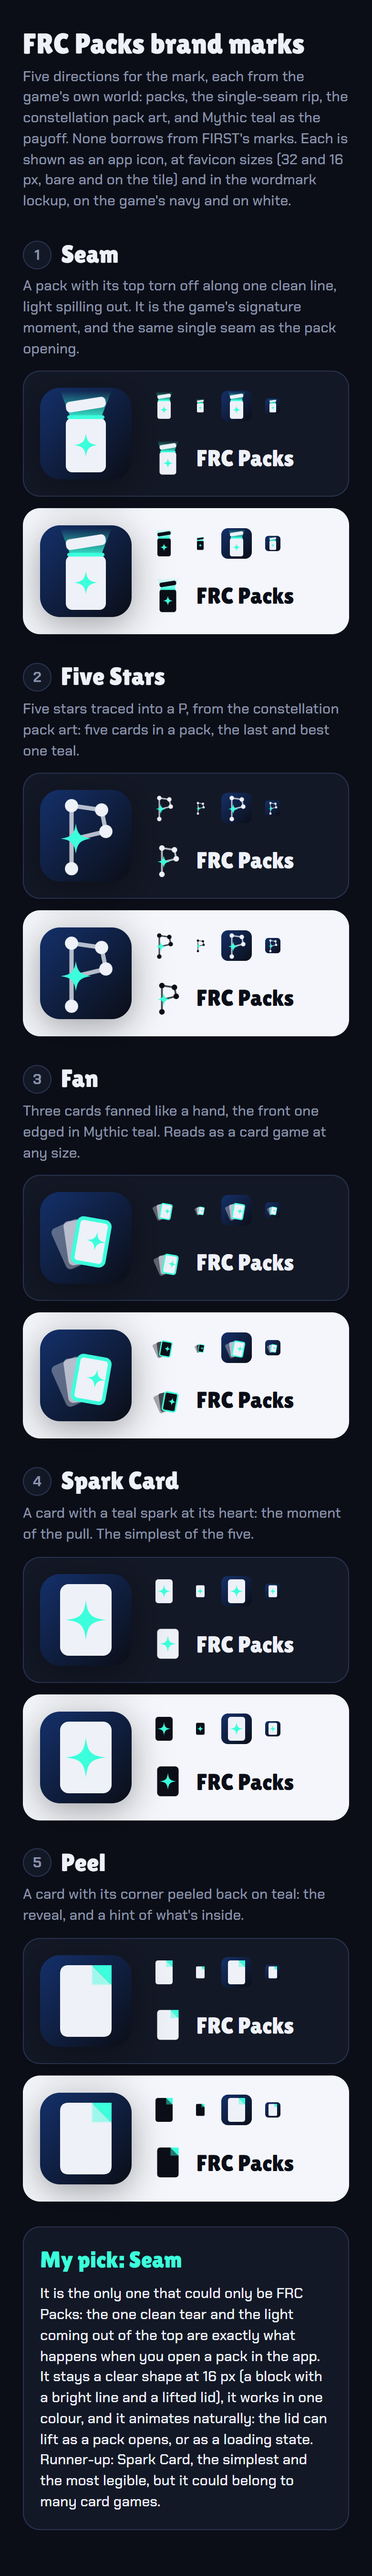
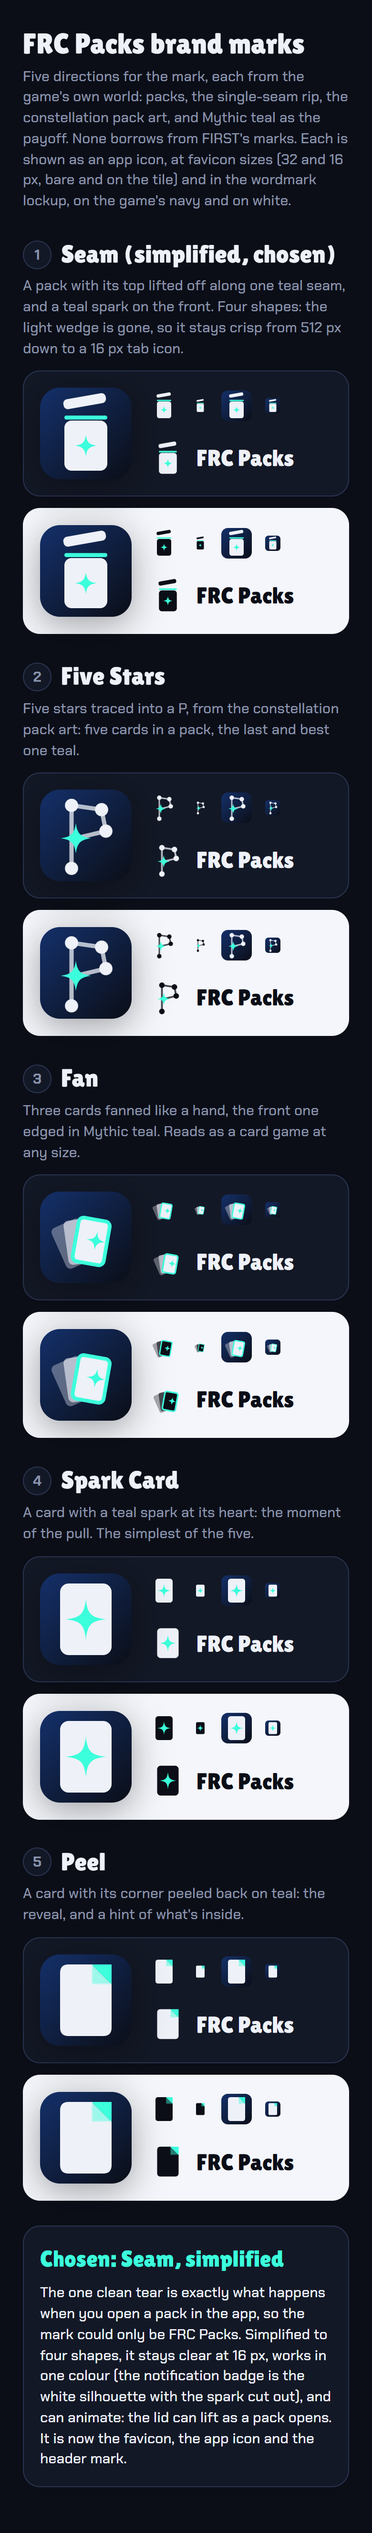
Brand marks: Seam simplified to four shapes (chosen)

Changed region(s): [[0.0615, 0.0, 0.9538, 0.9951]]

diff --git a/prototype/brand/sheet.html b/prototype/brand/sheet.html
@@ -50,89 +50,65 @@ p { margin: 0; }
   </header>
   
 <section class="row">
-  <header><h2><span class="n">1</span>Seam</h2><p>A pack with its top torn off along one clean line, light spilling out. It is the game's signature moment, and the same single seam as the pack opening.</p></header>
+  <header><h2><span class="n">1</span>Seam (simplified, chosen)</h2><p>A pack with its top lifted off along one teal seam, and a teal spark on the front. Four shapes: the light wedge is gone, so it stays crisp from 512 px down to a 16 px tab icon.</p></header>
   <div class="panes">
     <div class="pane dark">
       <div class="app"><svg xmlns="http://www.w3.org/2000/svg" viewBox="0 0 64 64"><defs><linearGradient id="bgseama" x1="0" y1="0" x2="1" y2="1"><stop offset="0" stop-color="#14306a"/><stop offset="1" stop-color="#0b0e17"/></linearGradient></defs><rect width="64" height="64" rx="14" fill="url(#bgseama)"/>
-  <defs><linearGradient id="gseama" x1="0" y1="1" x2="0" y2="0"><stop offset="0" stop-color="#3cffdc" stop-opacity=".85"/><stop offset="1" stop-color="#3cffdc" stop-opacity="0"/></linearGradient></defs>
-  <path d="M21 20 L43 20 L50 2 L14 2 Z" fill="url(#gseama)"/>
-  <rect x="18" y="21" width="28" height="38" rx="4.5" fill="#eef1f8"/>
-  <rect x="19" y="19.2" width="26" height="2.6" rx="1.3" fill="#3cffdc"/>
-  <rect x="18" y="8" width="28" height="7.5" rx="3" fill="#eef1f8" transform="rotate(-9 32 12)"/>
-  <path d="M32 32 C32.80 37.60 34.40 39.20 40 40 C34.40 40.80 32.80 42.40 32 48 C31.20 42.40 29.60 40.80 24 40 C29.60 39.20 31.20 37.60 32 32 Z" fill="#3cffdc"/></svg></div>
+  <rect x="17" y="23" width="30" height="35" rx="5" fill="#eef1f8"/>
+  <rect x="17" y="19.5" width="30" height="2.8" rx="1.4" fill="#3cffdc"/>
+  <rect x="17" y="8.5" width="30" height="7" rx="3" fill="#eef1f8" transform="rotate(-10 17 15.5)"/>
+  <path d="M32 33.0 C32.75 38.25 34.25 39.75 39.5 40.5 C34.25 41.25 32.75 42.75 32 48.0 C31.25 42.75 29.75 41.25 24.5 40.5 C29.75 39.75 31.25 38.25 32 33.0 Z" fill="#3cffdc"/></svg></div>
       <div class="small"><span class="s32"><svg xmlns="http://www.w3.org/2000/svg" viewBox="0 0 64 64" fill="currentColor">
-  <defs><linearGradient id="gseamb" x1="0" y1="1" x2="0" y2="0"><stop offset="0" stop-color="#3cffdc" stop-opacity=".85"/><stop offset="1" stop-color="#3cffdc" stop-opacity="0"/></linearGradient></defs>
-  <path d="M21 20 L43 20 L50 2 L14 2 Z" fill="url(#gseamb)"/>
-  <rect x="18" y="21" width="28" height="38" rx="4.5" fill="currentColor"/>
-  <rect x="19" y="19.2" width="26" height="2.6" rx="1.3" fill="#3cffdc"/>
-  <rect x="18" y="8" width="28" height="7.5" rx="3" fill="currentColor" transform="rotate(-9 32 12)"/>
-  <path d="M32 32 C32.80 37.60 34.40 39.20 40 40 C34.40 40.80 32.80 42.40 32 48 C31.20 42.40 29.60 40.80 24 40 C29.60 39.20 31.20 37.60 32 32 Z" fill="#3cffdc"/></svg></span><span class="s16"><svg xmlns="http://www.w3.org/2000/svg" viewBox="0 0 64 64" fill="currentColor">
-  <defs><linearGradient id="gseamc" x1="0" y1="1" x2="0" y2="0"><stop offset="0" stop-color="#3cffdc" stop-opacity=".85"/><stop offset="1" stop-color="#3cffdc" stop-opacity="0"/></linearGradient></defs>
-  <path d="M21 20 L43 20 L50 2 L14 2 Z" fill="url(#gseamc)"/>
-  <rect x="18" y="21" width="28" height="38" rx="4.5" fill="currentColor"/>
-  <rect x="19" y="19.2" width="26" height="2.6" rx="1.3" fill="#3cffdc"/>
-  <rect x="18" y="8" width="28" height="7.5" rx="3" fill="currentColor" transform="rotate(-9 32 12)"/>
-  <path d="M32 32 C32.80 37.60 34.40 39.20 40 40 C34.40 40.80 32.80 42.40 32 48 C31.20 42.40 29.60 40.80 24 40 C29.60 39.20 31.20 37.60 32 32 Z" fill="#3cffdc"/></svg></span><span class="t32"><svg xmlns="http://www.w3.org/2000/svg" viewBox="0 0 64 64"><defs><linearGradient id="bgseamd" x1="0" y1="0" x2="1" y2="1"><stop offset="0" stop-color="#14306a"/><stop offset="1" stop-color="#0b0e17"/></linearGradient></defs><rect width="64" height="64" rx="14" fill="url(#bgseamd)"/>
-  <defs><linearGradient id="gseamd" x1="0" y1="1" x2="0" y2="0"><stop offset="0" stop-color="#3cffdc" stop-opacity=".85"/><stop offset="1" stop-color="#3cffdc" stop-opacity="0"/></linearGradient></defs>
-  <path d="M21 20 L43 20 L50 2 L14 2 Z" fill="url(#gseamd)"/>
-  <rect x="18" y="21" width="28" height="38" rx="4.5" fill="#eef1f8"/>
-  <rect x="19" y="19.2" width="26" height="2.6" rx="1.3" fill="#3cffdc"/>
-  <rect x="18" y="8" width="28" height="7.5" rx="3" fill="#eef1f8" transform="rotate(-9 32 12)"/>
-  <path d="M32 32 C32.80 37.60 34.40 39.20 40 40 C34.40 40.80 32.80 42.40 32 48 C31.20 42.40 29.60 40.80 24 40 C29.60 39.20 31.20 37.60 32 32 Z" fill="#3cffdc"/></svg></span><span class="t16"><svg xmlns="http://www.w3.org/2000/svg" viewBox="0 0 64 64"><defs><linearGradient id="bgseame" x1="0" y1="0" x2="1" y2="1"><stop offset="0" stop-color="#14306a"/><stop offset="1" stop-color="#0b0e17"/></linearGradient></defs><rect width="64" height="64" rx="14" fill="url(#bgseame)"/>
-  <defs><linearGradient id="gseame" x1="0" y1="1" x2="0" y2="0"><stop offset="0" stop-color="#3cffdc" stop-opacity=".85"/><stop offset="1" stop-color="#3cffdc" stop-opacity="0"/></linearGradient></defs>
-  <path d="M21 20 L43 20 L50 2 L14 2 Z" fill="url(#gseame)"/>
-  <rect x="18" y="21" width="28" height="38" rx="4.5" fill="#eef1f8"/>
-  <rect x="19" y="19.2" width="26" height="2.6" rx="1.3" fill="#3cffdc"/>
-  <rect x="18" y="8" width="28" height="7.5" rx="3" fill="#eef1f8" transform="rotate(-9 32 12)"/>
-  <path d="M32 32 C32.80 37.60 34.40 39.20 40 40 C34.40 40.80 32.80 42.40 32 48 C31.20 42.40 29.60 40.80 24 40 C29.60 39.20 31.20 37.60 32 32 Z" fill="#3cffdc"/></svg></span></div>
+  <rect x="17" y="23" width="30" height="35" rx="5" fill="currentColor"/>
+  <rect x="17" y="19.5" width="30" height="2.8" rx="1.4" fill="#3cffdc"/>
+  <rect x="17" y="8.5" width="30" height="7" rx="3" fill="currentColor" transform="rotate(-10 17 15.5)"/>
+  <path d="M32 33.0 C32.75 38.25 34.25 39.75 39.5 40.5 C34.25 41.25 32.75 42.75 32 48.0 C31.25 42.75 29.75 41.25 24.5 40.5 C29.75 39.75 31.25 38.25 32 33.0 Z" fill="#3cffdc"/></svg></span><span class="s16"><svg xmlns="http://www.w3.org/2000/svg" viewBox="0 0 64 64" fill="currentColor">
+  <rect x="17" y="23" width="30" height="35" rx="5" fill="currentColor"/>
+  <rect x="17" y="19.5" width="30" height="2.8" rx="1.4" fill="#3cffdc"/>
+  <rect x="17" y="8.5" width="30" height="7" rx="3" fill="currentColor" transform="rotate(-10 17 15.5)"/>
+  <path d="M32 33.0 C32.75 38.25 34.25 39.75 39.5 40.5 C34.25 41.25 32.75 42.75 32 48.0 C31.25 42.75 29.75 41.25 24.5 40.5 C29.75 39.75 31.25 38.25 32 33.0 Z" fill="#3cffdc"/></svg></span><span class="t32"><svg xmlns="http://www.w3.org/2000/svg" viewBox="0 0 64 64"><defs><linearGradient id="bgseamd" x1="0" y1="0" x2="1" y2="1"><stop offset="0" stop-color="#14306a"/><stop offset="1" stop-color="#0b0e17"/></linearGradient></defs><rect width="64" height="64" rx="14" fill="url(#bgseamd)"/>
+  <rect x="17" y="23" width="30" height="35" rx="5" fill="#eef1f8"/>
+  <rect x="17" y="19.5" width="30" height="2.8" rx="1.4" fill="#3cffdc"/>
+  <rect x="17" y="8.5" width="30" height="7" rx="3" fill="#eef1f8" transform="rotate(-10 17 15.5)"/>
+  <path d="M32 33.0 C32.75 38.25 34.25 39.75 39.5 40.5 C34.25 41.25 32.75 42.75 32 48.0 C31.25 42.75 29.75 41.25 24.5 40.5 C29.75 39.75 31.25 38.25 32 33.0 Z" fill="#3cffdc"/></svg></span><span class="t16"><svg xmlns="http://www.w3.org/2000/svg" viewBox="0 0 64 64"><defs><linearGradient id="bgseame" x1="0" y1="0" x2="1" y2="1"><stop offset="0" stop-color="#14306a"/><stop offset="1" stop-color="#0b0e17"/></linearGradient></defs><rect width="64" height="64" rx="14" fill="url(#bgseame)"/>
+  <rect x="17" y="23" width="30" height="35" rx="5" fill="#eef1f8"/>
+  <rect x="17" y="19.5" width="30" height="2.8" rx="1.4" fill="#3cffdc"/>
+  <rect x="17" y="8.5" width="30" height="7" rx="3" fill="#eef1f8" transform="rotate(-10 17 15.5)"/>
+  <path d="M32 33.0 C32.75 38.25 34.25 39.75 39.5 40.5 C34.25 41.25 32.75 42.75 32 48.0 C31.25 42.75 29.75 41.25 24.5 40.5 C29.75 39.75 31.25 38.25 32 33.0 Z" fill="#3cffdc"/></svg></span></div>
       <div class="lock"><span class="lm"><svg xmlns="http://www.w3.org/2000/svg" viewBox="0 0 64 64" fill="currentColor">
-  <defs><linearGradient id="gseamg" x1="0" y1="1" x2="0" y2="0"><stop offset="0" stop-color="#3cffdc" stop-opacity=".85"/><stop offset="1" stop-color="#3cffdc" stop-opacity="0"/></linearGradient></defs>
-  <path d="M21 20 L43 20 L50 2 L14 2 Z" fill="url(#gseamg)"/>
-  <rect x="18" y="21" width="28" height="38" rx="4.5" fill="currentColor"/>
-  <rect x="19" y="19.2" width="26" height="2.6" rx="1.3" fill="#3cffdc"/>
-  <rect x="18" y="8" width="28" height="7.5" rx="3" fill="currentColor" transform="rotate(-9 32 12)"/>
-  <path d="M32 32 C32.80 37.60 34.40 39.20 40 40 C34.40 40.80 32.80 42.40 32 48 C31.20 42.40 29.60 40.80 24 40 C29.60 39.20 31.20 37.60 32 32 Z" fill="#3cffdc"/></svg></span><b>FRC Packs</b></div>
+  <rect x="17" y="23" width="30" height="35" rx="5" fill="currentColor"/>
+  <rect x="17" y="19.5" width="30" height="2.8" rx="1.4" fill="#3cffdc"/>
+  <rect x="17" y="8.5" width="30" height="7" rx="3" fill="currentColor" transform="rotate(-10 17 15.5)"/>
+  <path d="M32 33.0 C32.75 38.25 34.25 39.75 39.5 40.5 C34.25 41.25 32.75 42.75 32 48.0 C31.25 42.75 29.75 41.25 24.5 40.5 C29.75 39.75 31.25 38.25 32 33.0 Z" fill="#3cffdc"/></svg></span><b>FRC Packs</b></div>
     </div>
     <div class="pane light">
       <div class="app"><svg xmlns="http://www.w3.org/2000/svg" viewBox="0 0 64 64"><defs><linearGradient id="bgseamh" x1="0" y1="0" x2="1" y2="1"><stop offset="0" stop-color="#14306a"/><stop offset="1" stop-color="#0b0e17"/></linearGradient></defs><rect width="64" height="64" rx="14" fill="url(#bgseamh)"/>
-  <defs><linearGradient id="gseamh" x1="0" y1="1" x2="0" y2="0"><stop offset="0" stop-color="#3cffdc" stop-opacity=".85"/><stop offset="1" stop-color="#3cffdc" stop-opacity="0"/></linearGradient></defs>
-  <path d="M21 20 L43 20 L50 2 L14 2 Z" fill="url(#gseamh)"/>
-  <rect x="18" y="21" width="28" height="38" rx="4.5" fill="#eef1f8"/>
-  <rect x="19" y="19.2" width="26" height="2.6" rx="1.3" fill="#3cffdc"/>
-  <rect x="18" y="8" width="28" height="7.5" rx="3" fill="#eef1f8" transform="rotate(-9 32 12)"/>
-  <path d="M32 32 C32.80 37.60 34.40 39.20 40 40 C34.40 40.80 32.80 42.40 32 48 C31.20 42.40 29.60 40.80 24 40 C29.60 39.20 31.20 37.60 32 32 Z" fill="#3cffdc"/></svg></div>
+  <rect x="17" y="23" width="30" height="35" rx="5" fill="#eef1f8"/>
+  <rect x="17" y="19.5" width="30" height="2.8" rx="1.4" fill="#3cffdc"/>
+  <rect x="17" y="8.5" width="30" height="7" rx="3" fill="#eef1f8" transform="rotate(-10 17 15.5)"/>
+  <path d="M32 33.0 C32.75 38.25 34.25 39.75 39.5 40.5 C34.25 41.25 32.75 42.75 32 48.0 C31.25 42.75 29.75 41.25 24.5 40.5 C29.75 39.75 31.25 38.25 32 33.0 Z" fill="#3cffdc"/></svg></div>
       <div class="small"><span class="s32"><svg xmlns="http://www.w3.org/2000/svg" viewBox="0 0 64 64" fill="currentColor">
-  <defs><linearGradient id="gseami" x1="0" y1="1" x2="0" y2="0"><stop offset="0" stop-color="#3cffdc" stop-opacity=".85"/><stop offset="1" stop-color="#3cffdc" stop-opacity="0"/></linearGradient></defs>
-  <path d="M21 20 L43 20 L50 2 L14 2 Z" fill="url(#gseami)"/>
-  <rect x="18" y="21" width="28" height="38" rx="4.5" fill="currentColor"/>
-  <rect x="19" y="19.2" width="26" height="2.6" rx="1.3" fill="#3cffdc"/>
-  <rect x="18" y="8" width="28" height="7.5" rx="3" fill="currentColor" transform="rotate(-9 32 12)"/>
-  <path d="M32 32 C32.80 37.60 34.40 39.20 40 40 C34.40 40.80 32.80 42.40 32 48 C31.20 42.40 29.60 40.80 24 40 C29.60 39.20 31.20 37.60 32 32 Z" fill="#3cffdc"/></svg></span><span class="s16"><svg xmlns="http://www.w3.org/2000/svg" viewBox="0 0 64 64" fill="currentColor">
-  <defs><linearGradient id="gseamj" x1="0" y1="1" x2="0" y2="0"><stop offset="0" stop-color="#3cffdc" stop-opacity=".85"/><stop offset="1" stop-color="#3cffdc" stop-opacity="0"/></linearGradient></defs>
-  <path d="M21 20 L43 20 L50 2 L14 2 Z" fill="url(#gseamj)"/>
-  <rect x="18" y="21" width="28" height="38" rx="4.5" fill="currentColor"/>
-  <rect x="19" y="19.2" width="26" height="2.6" rx="1.3" fill="#3cffdc"/>
-  <rect x="18" y="8" width="28" height="7.5" rx="3" fill="currentColor" transform="rotate(-9 32 12)"/>
-  <path d="M32 32 C32.80 37.60 34.40 39.20 40 40 C34.40 40.80 32.80 42.40 32 48 C31.20 42.40 29.60 40.80 24 40 C29.60 39.20 31.20 37.60 32 32 Z" fill="#3cffdc"/></svg></span><span class="t32"><svg xmlns="http://www.w3.org/2000/svg" viewBox="0 0 64 64"><defs><linearGradient id="bgseamk" x1="0" y1="0" x2="1" y2="1"><stop offset="0" stop-color="#14306a"/><stop offset="1" stop-color="#0b0e17"/></linearGradient></defs><rect width="64" height="64" rx="14" fill="url(#bgseamk)"/>
-  <defs><linearGradient id="gseamk" x1="0" y1="1" x2="0" y2="0"><stop offset="0" stop-color="#3cffdc" stop-opacity=".85"/><stop offset="1" stop-color="#3cffdc" stop-opacity="0"/></linearGradient></defs>
-  <path d="M21 20 L43 20 L50 2 L14 2 Z" fill="url(#gseamk)"/>
-  <rect x="18" y="21" width="28" height="38" rx="4.5" fill="#eef1f8"/>
-  <rect x="19" y="19.2" width="26" height="2.6" rx="1.3" fill="#3cffdc"/>
-  <rect x="18" y="8" width="28" height="7.5" rx="3" fill="#eef1f8" transform="rotate(-9 32 12)"/>
-  <path d="M32 32 C32.80 37.60 34.40 39.20 40 40 C34.40 40.80 32.80 42.40 32 48 C31.20 42.40 29.60 40.80 24 40 C29.60 39.20 31.20 37.60 32 32 Z" fill="#3cffdc"/></svg></span><span class="t16"><svg xmlns="http://www.w3.org/2000/svg" viewBox="0 0 64 64"><defs><linearGradient id="bgseaml" x1="0" y1="0" x2="1" y2="1"><stop offset="0" stop-color="#14306a"/><stop offset="1" stop-color="#0b0e17"/></linearGradient></defs><rect width="64" height="64" rx="14" fill="url(#bgseaml)"/>
-  <defs><linearGradient id="gseaml" x1="0" y1="1" x2="0" y2="0"><stop offset="0" stop-color="#3cffdc" stop-opacity=".85"/><stop offset="1" stop-color="#3cffdc" stop-opacity="0"/></linearGradient></defs>
-  <path d="M21 20 L43 20 L50 2 L14 2 Z" fill="url(#gseaml)"/>
-  <rect x="18" y="21" width="28" height="38" rx="4.5" fill="#eef1f8"/>
-  <rect x="19" y="19.2" width="26" height="2.6" rx="1.3" fill="#3cffdc"/>
-  <rect x="18" y="8" width="28" height="7.5" rx="3" fill="#eef1f8" transform="rotate(-9 32 12)"/>
-  <path d="M32 32 C32.80 37.60 34.40 39.20 40 40 C34.40 40.80 32.80 42.40 32 48 C31.20 42.40 29.60 40.80 24 40 C29.60 39.20 31.20 37.60 32 32 Z" fill="#3cffdc"/></svg></span></div>
+  <rect x="17" y="23" width="30" height="35" rx="5" fill="currentColor"/>
+  <rect x="17" y="19.5" width="30" height="2.8" rx="1.4" fill="#3cffdc"/>
+  <rect x="17" y="8.5" width="30" height="7" rx="3" fill="currentColor" transform="rotate(-10 17 15.5)"/>
+  <path d="M32 33.0 C32.75 38.25 34.25 39.75 39.5 40.5 C34.25 41.25 32.75 42.75 32 48.0 C31.25 42.75 29.75 41.25 24.5 40.5 C29.75 39.75 31.25 38.25 32 33.0 Z" fill="#3cffdc"/></svg></span><span class="s16"><svg xmlns="http://www.w3.org/2000/svg" viewBox="0 0 64 64" fill="currentColor">
+  <rect x="17" y="23" width="30" height="35" rx="5" fill="currentColor"/>
+  <rect x="17" y="19.5" width="30" height="2.8" rx="1.4" fill="#3cffdc"/>
+  <rect x="17" y="8.5" width="30" height="7" rx="3" fill="currentColor" transform="rotate(-10 17 15.5)"/>
+  <path d="M32 33.0 C32.75 38.25 34.25 39.75 39.5 40.5 C34.25 41.25 32.75 42.75 32 48.0 C31.25 42.75 29.75 41.25 24.5 40.5 C29.75 39.75 31.25 38.25 32 33.0 Z" fill="#3cffdc"/></svg></span><span class="t32"><svg xmlns="http://www.w3.org/2000/svg" viewBox="0 0 64 64"><defs><linearGradient id="bgseamk" x1="0" y1="0" x2="1" y2="1"><stop offset="0" stop-color="#14306a"/><stop offset="1" stop-color="#0b0e17"/></linearGradient></defs><rect width="64" height="64" rx="14" fill="url(#bgseamk)"/>
+  <rect x="17" y="23" width="30" height="35" rx="5" fill="#eef1f8"/>
+  <rect x="17" y="19.5" width="30" height="2.8" rx="1.4" fill="#3cffdc"/>
+  <rect x="17" y="8.5" width="30" height="7" rx="3" fill="#eef1f8" transform="rotate(-10 17 15.5)"/>
+  <path d="M32 33.0 C32.75 38.25 34.25 39.75 39.5 40.5 C34.25 41.25 32.75 42.75 32 48.0 C31.25 42.75 29.75 41.25 24.5 40.5 C29.75 39.75 31.25 38.25 32 33.0 Z" fill="#3cffdc"/></svg></span><span class="t16"><svg xmlns="http://www.w3.org/2000/svg" viewBox="0 0 64 64"><defs><linearGradient id="bgseaml" x1="0" y1="0" x2="1" y2="1"><stop offset="0" stop-color="#14306a"/><stop offset="1" stop-color="#0b0e17"/></linearGradient></defs><rect width="64" height="64" rx="14" fill="url(#bgseaml)"/>
+  <rect x="17" y="23" width="30" height="35" rx="5" fill="#eef1f8"/>
+  <rect x="17" y="19.5" width="30" height="2.8" rx="1.4" fill="#3cffdc"/>
+  <rect x="17" y="8.5" width="30" height="7" rx="3" fill="#eef1f8" transform="rotate(-10 17 15.5)"/>
+  <path d="M32 33.0 C32.75 38.25 34.25 39.75 39.5 40.5 C34.25 41.25 32.75 42.75 32 48.0 C31.25 42.75 29.75 41.25 24.5 40.5 C29.75 39.75 31.25 38.25 32 33.0 Z" fill="#3cffdc"/></svg></span></div>
       <div class="lock"><span class="lm"><svg xmlns="http://www.w3.org/2000/svg" viewBox="0 0 64 64" fill="currentColor">
-  <defs><linearGradient id="gseamo" x1="0" y1="1" x2="0" y2="0"><stop offset="0" stop-color="#3cffdc" stop-opacity=".85"/><stop offset="1" stop-color="#3cffdc" stop-opacity="0"/></linearGradient></defs>
-  <path d="M21 20 L43 20 L50 2 L14 2 Z" fill="url(#gseamo)"/>
-  <rect x="18" y="21" width="28" height="38" rx="4.5" fill="currentColor"/>
-  <rect x="19" y="19.2" width="26" height="2.6" rx="1.3" fill="#3cffdc"/>
-  <rect x="18" y="8" width="28" height="7.5" rx="3" fill="currentColor" transform="rotate(-9 32 12)"/>
-  <path d="M32 32 C32.80 37.60 34.40 39.20 40 40 C34.40 40.80 32.80 42.40 32 48 C31.20 42.40 29.60 40.80 24 40 C29.60 39.20 31.20 37.60 32 32 Z" fill="#3cffdc"/></svg></span><b>FRC Packs</b></div>
+  <rect x="17" y="23" width="30" height="35" rx="5" fill="currentColor"/>
+  <rect x="17" y="19.5" width="30" height="2.8" rx="1.4" fill="#3cffdc"/>
+  <rect x="17" y="8.5" width="30" height="7" rx="3" fill="currentColor" transform="rotate(-10 17 15.5)"/>
+  <path d="M32 33.0 C32.75 38.25 34.25 39.75 39.5 40.5 C34.25 41.25 32.75 42.75 32 48.0 C31.25 42.75 29.75 41.25 24.5 40.5 C29.75 39.75 31.25 38.25 32 33.0 Z" fill="#3cffdc"/></svg></span><b>FRC Packs</b></div>
     </div>
   </div>
 </section>
@@ -377,7 +353,7 @@ p { margin: 0; }
   </div>
 </section>
   <section class="pick">
-    <h2>My pick: Seam</h2>
-    <p>It is the only one that could only be FRC Packs: the one clean tear and the light coming out of the top are exactly what happens when you open a pack in the app. It stays a clear shape at 16 px (a block with a bright line and a lifted lid), it works in one colour, and it animates naturally: the lid can lift as a pack opens, or as a loading state. Runner-up: Spark Card, the simplest and the most legible, but it could belong to many card games.</p>
+    <h2>Chosen: Seam, simplified</h2>
+    <p>The one clean tear is exactly what happens when you open a pack in the app, so the mark could only be FRC Packs. Simplified to four shapes, it stays clear at 16 px, works in one colour (the notification badge is the white silhouette with the spark cut out), and can animate: the lid can lift as a pack opens. It is now the favicon, the app icon and the header mark.</p>
   </section>
 </main>

diff --git a/prototype/brand/build.py b/prototype/brand/build.py
@@ -20,13 +20,12 @@ def star4(cx, cy, r, w=0.24):
 
 # Each mark is drawn on a 64x64 grid. `ink` is the main colour (white on the navy tile, currentColor when bare).
 def seam(ink, uid):
+    # Simplified (2026-10-29): the light wedge is gone; the pack, the teal seam, the lifted lid and the spark stay.
     return f"""
-  <defs><linearGradient id="g{uid}" x1="0" y1="1" x2="0" y2="0"><stop offset="0" stop-color="{TEAL}" stop-opacity=".85"/><stop offset="1" stop-color="{TEAL}" stop-opacity="0"/></linearGradient></defs>
-  <path d="M21 20 L43 20 L50 2 L14 2 Z" fill="url(#g{uid})"/>
-  <rect x="18" y="21" width="28" height="38" rx="4.5" fill="{ink}"/>
-  <rect x="19" y="19.2" width="26" height="2.6" rx="1.3" fill="{TEAL}"/>
-  <rect x="18" y="8" width="28" height="7.5" rx="3" fill="{ink}" transform="rotate(-9 32 12)"/>
-  <path d="{star4(32, 40, 8, .3)}" fill="{TEAL}"/>"""
+  <rect x="17" y="23" width="30" height="35" rx="5" fill="{ink}"/>
+  <rect x="17" y="19.5" width="30" height="2.8" rx="1.4" fill="{TEAL}"/>
+  <rect x="17" y="8.5" width="30" height="7" rx="3" fill="{ink}" transform="rotate(-10 17 15.5)"/>
+  <path d="{star4(32, 40.5, 7.5, .3)}" fill="{TEAL}"/>"""
 
 
 def five_stars(ink, uid):
@@ -65,7 +64,7 @@ def peel(ink, uid):
 
 
 MARKS = [
-    ("seam", "Seam", seam, "A pack with its top torn off along one clean line, light spilling out. It is the game's signature moment, and the same single seam as the pack opening."),
+    ("seam", "Seam (simplified, chosen)", seam, "A pack with its top lifted off along one teal seam, and a teal spark on the front. Four shapes: the light wedge is gone, so it stays crisp from 512 px down to a 16 px tab icon."),
     ("five-stars", "Five Stars", five_stars, "Five stars traced into a P, from the constellation pack art: five cards in a pack, the last and best one teal."),
     ("fan", "Fan", fan, "Three cards fanned like a hand, the front one edged in Mythic teal. Reads as a card game at any size."),
     ("spark-card", "Spark Card", spark_card, "A card with a teal spark at its heart: the moment of the pull. The simplest of the five."),
@@ -158,8 +157,8 @@ p {{ margin: 0; }}
   </header>
   {"".join(rows)}
   <section class="pick">
-    <h2>My pick: Seam</h2>
-    <p>It is the only one that could only be FRC Packs: the one clean tear and the light coming out of the top are exactly what happens when you open a pack in the app. It stays a clear shape at 16 px (a block with a bright line and a lifted lid), it works in one colour, and it animates naturally: the lid can lift as a pack opens, or as a loading state. Runner-up: Spark Card, the simplest and the most legible, but it could belong to many card games.</p>
+    <h2>Chosen: Seam, simplified</h2>
+    <p>The one clean tear is exactly what happens when you open a pack in the app, so the mark could only be FRC Packs. Simplified to four shapes, it stays clear at 16 px, works in one colour (the notification badge is the white silhouette with the spark cut out), and can animate: the lid can lift as a pack opens. It is now the favicon, the app icon and the header mark.</p>
   </section>
 </main>
 """
